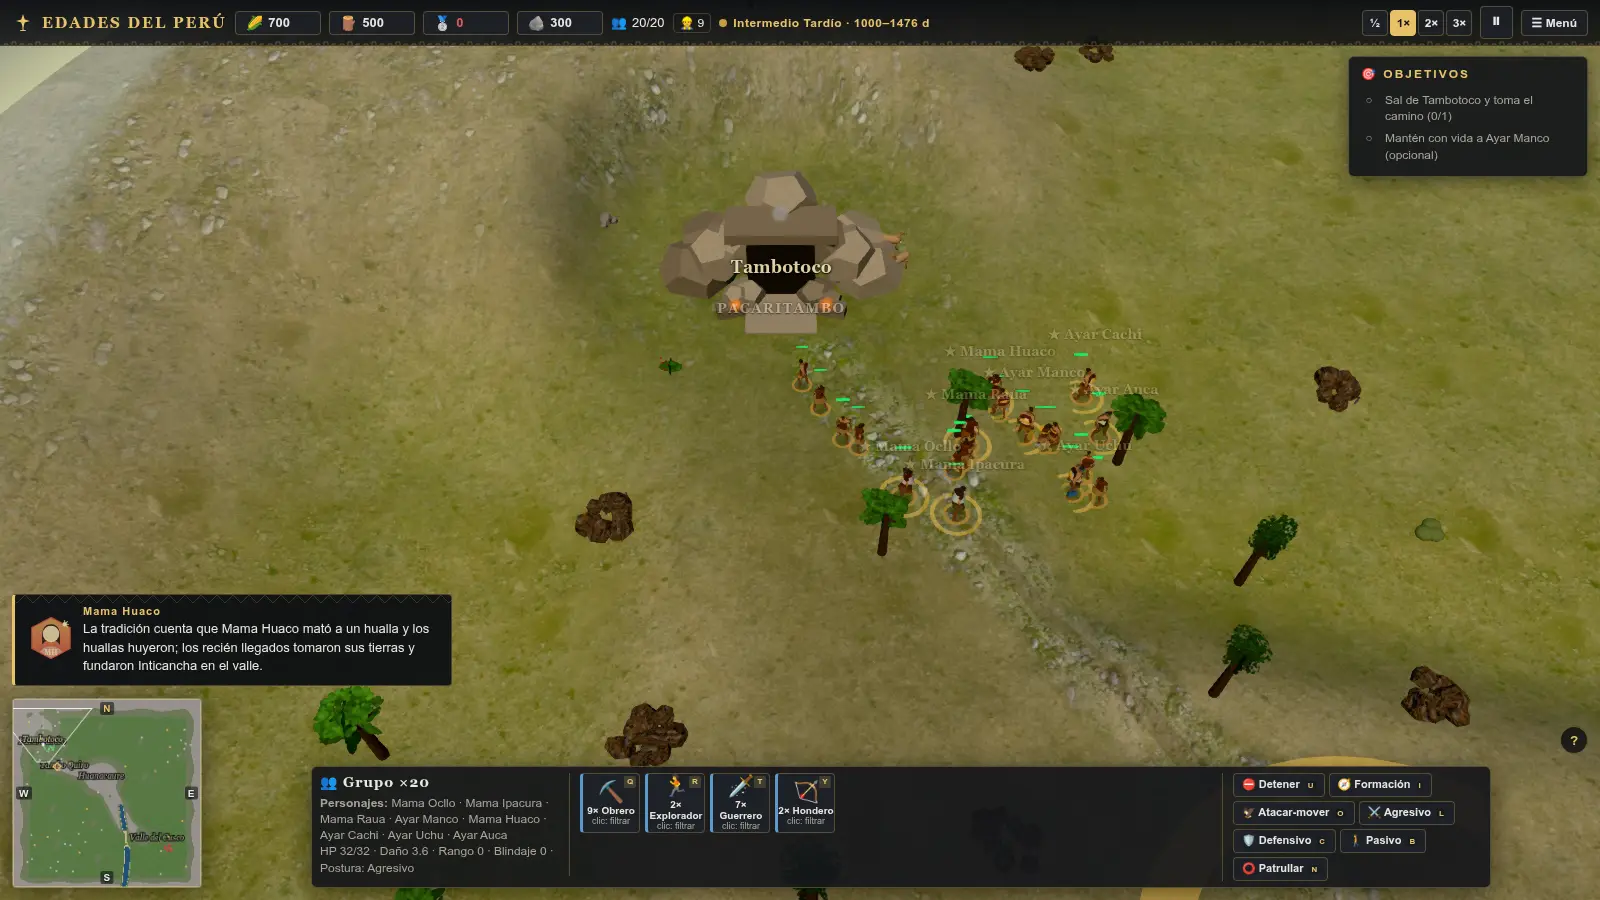
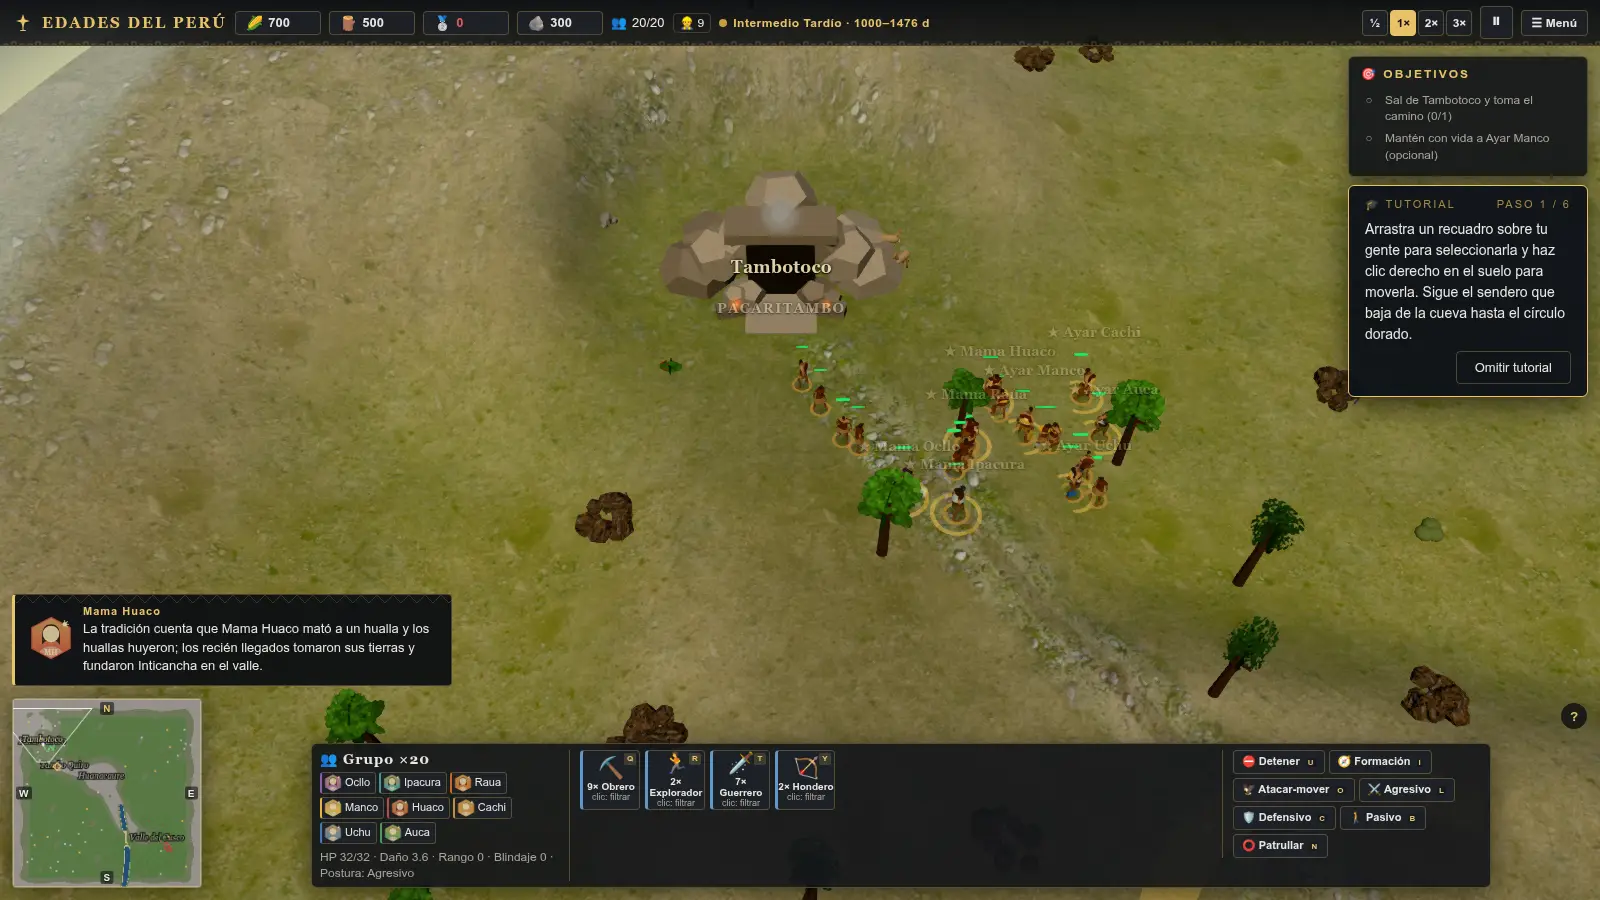
feat(ui): name a selected cast with portrait chips
The selected-party panel listed the eight Ayar in one paragraph («Personajes: Mama Ocllo · …») that wrapped over the stats. Multi-character selections now render one chip per commander: a small medallion, a short name and a border in the commander accent; the full name stays in the tooltip and on the accessible label, and the stats keep their lines. The description column grows to 140 px at 1280 and 160 px at 1920 so the eight chips plus the stat block fit without scrolling.

The short name and the accent fallback move to commanders.ts (commanderShortName / commanderAccent): «Ayar Manco» → «Manco», «Túpac Amaru II» → «Amaru», «José de San Martín» → «Martín», so a shipped mission cannot label a chip «II». Hero markers and hero attire use the same accent helper, and the old hud.unit.cast paragraph key is gone.

The party nameplate spread leaves a named 3 px gap between stacked plates instead of 1. The zoom fade from #506 still drops them at the strategic zoom.

Evidence: scripts/capture_hud_dialogue.mjs regenerates the native 1280/1600/1920 captures. Tests: the cast E2E asserts eight chips, the full-name tooltip, no chips for a single hero, and that the chips plus stats fit; hud-layout now snapshots a selected cast in every mission.

diff --git a/src/ui/HUD.ts b/src/ui/HUD.ts
@@ -56,7 +56,14 @@ import { renderBriefing } from './MissionBriefing';
 import { decorateTitleScreen, renderCampaignPath, renderMainMenu } from './SeriesMenu';
 import { publicAsset } from '../util/publicAsset';
 import type { MissionDef, ObjectiveProgress, ObjState } from '../campaign/types';
-import { COMMANDERS, commanderById, commanderLabel, type PortraitId } from '../model/defs/commanders';
+import {
+  COMMANDERS,
+  commanderById,
+  commanderAccent,
+  commanderLabel,
+  commanderShortName,
+  type PortraitId,
+} from '../model/defs/commanders';
 import type { HeritageBuildingDef, HeritageBuildingId } from '../model/defs/heritage';
 import { portraitSvg } from './Portrait';
 import { DamageNumbers } from './DamageNumbers';
@@ -190,9 +197,12 @@ const CSS = /* css */ `
   #ed-bottom-header { padding: 3px 12px; font-size: 12px; font-weight: 700; border-bottom: 1px solid var(--line); display: flex; align-items: center; gap: 8px; background: rgba(232,195,106,0.06); background-image: var(--weave); background-repeat: repeat-x; background-position: bottom; }
   #ed-bottom-header:empty { display: none; }
   #ed-bottom-body { padding: 6px 8px; display: flex; flex-direction: row; align-items: flex-start; gap: 10px; }
-  #ed-desc { flex: 0 0 250px; max-height: 120px; overflow-y: auto; font-size: 12px; color: var(--text-dim); line-height: 1.35; padding-right: 10px; border-right: 1px solid var(--line); }
+  #ed-desc { flex: 0 0 250px; max-height: 140px; overflow-y: auto; font-size: 12px; color: var(--text-dim); line-height: 1.35; padding-right: 10px; border-right: 1px solid var(--line); }
   #ed-desc:empty { display: none; }
   #ed-desc h3 { margin: 0 0 3px; font-size: 14px; color: var(--text); }
+  #ed-desc .ed-hero-chips { display: flex; flex-wrap: wrap; gap: 3px; margin: 0 0 5px; }
+  #ed-desc .ed-hero-chip { display: inline-flex; align-items: center; gap: 3px; padding: 1px 5px 1px 2px; border: 1px solid var(--line); border-left: 2px solid var(--accent, var(--gold)); border-radius: 3px; background: var(--panel-2); color: var(--text); font-size: 11px; line-height: 1.2; }
+  #ed-desc .ed-hero-chip .ed-portrait { width: 18px; height: 18px; }
   .ed-grid { flex: 1 1 auto; display: flex; flex-wrap: wrap; align-content: flex-start; gap: 5px; min-width: 0; }
   #ed-commands { flex: 0 1 260px; display: flex; flex-wrap: wrap; align-content: flex-start; gap: 4px; padding-left: 10px; border-left: 1px solid var(--line); }
   #ed-commands:empty { display: none; }
@@ -553,8 +563,10 @@ const CSS = /* css */ `
     #ed-dialogue .txt { font-size: 15px; }
     #ed-bottom { max-width: 1500px; }
     #ed-bottom-header { font-size: 14px; padding: 4px 14px; }
-    #ed-desc { flex-basis: 320px; max-height: 140px; font-size: 14px; }
+    #ed-desc { flex-basis: 320px; max-height: 160px; font-size: 14px; }
     #ed-desc h3 { font-size: 16px; }
+    #ed-desc .ed-hero-chip { font-size: 12px; }
+    #ed-desc .ed-hero-chip .ed-portrait { width: 20px; height: 20px; }
     .ed-card { width: 70px; height: 70px; font-size: 12px; }
     #ed-commands { flex-basis: 310px; }
     #ed-commands .ed-command { padding: 6px 10px; font-size: 13px; }
@@ -1882,8 +1894,18 @@ export class HUD {
       const c = commanderById(u.tag);
       return c ? [c] : [];
     });
-    const castLine =
-      commander || cast.length === 0 ? '' : `<b>${t('hud.unit.cast')}:</b> ${cast.map((c) => c.name).join(' · ')}<br>`;
+    // One chip per named character: a portrait, a short name and the commander's accent, instead of a
+    // paragraph of eight names that wrapped over the unit stats.
+    const chips =
+      cast.length === 0
+        ? ''
+        : `<div class="ed-hero-chips">${cast
+            .map((c) => {
+              const accent = commanderAccent(c);
+              const name = escapeHtml(c.name);
+              return `<span class="ed-hero-chip" style="--accent:${accent}" title="${name}" aria-label="${name}">${portraitSvg(c, 18)}<span>${escapeHtml(commanderShortName(c))}</span></span>`;
+            })
+            .join('')}</div>`;
     const mixed = new Set(units.map((u) => u.kind)).size > 1;
     const title = commander
       ? commanderLabel(commander)
@@ -1895,7 +1917,7 @@ export class HUD {
       title,
       commander
         ? `${commander.hero ? `${t('hud.unit.hero')} · ` : ''}${commander.role}<br>${this.unitDesc(first)}`
-        : `${castLine}${this.unitDesc(first)}`,
+        : `${chips}${this.unitDesc(first)}`,
     );
     this.clearGrid();
     // summary by type (click = select only that type) — AoE2 style

diff --git a/tests/e2e/campaign.spec.ts b/tests/e2e/campaign.spec.ts
@@ -1211,16 +1211,26 @@ test('the Ayar cast is on the board and named after the briefing', async ({ page
     const heroMarkers = g.heroMarkers ? (g.heroMarkers.rings.count as number) : 0;
     const heroScale = manco.unitView?.view.group.scale.x ?? 0;
     const single = document.querySelector('#ed-desc')?.textContent ?? '';
+    const singleChips = document.querySelectorAll('#ed-desc .ed-hero-chip').length;
     g.selectUnits(tagged.map((u: any) => u.id));
     for (let i = 0; i < 20; i++) g.update(1 / 60, 20 / 60 + i / 60);
     const labels = g.characterLabels ? [...g.characterLabels.labels.values()] : [];
+    const chipEls = [...document.querySelectorAll('#ed-desc .ed-hero-chip')];
+    const chips = chipEls.length;
+    const chipTitles = chipEls.map((el) => el.getAttribute('title') ?? '');
+    const desc = document.getElementById('ed-desc');
+    const descFits = !!desc && desc.scrollHeight <= desc.clientHeight + 1;
     return {
       tags: tagged.map((u: any) => u.tag as string),
       labels: labels.length,
       visibleLabels: labels.filter((l: { visible: boolean }) => l.visible).length,
       single,
+      singleChips,
       heroMarkers,
       heroScale,
+      chips,
+      chipTitles,
+      descFits,
       party: document.querySelector('#ed-desc')?.textContent ?? '',
     };
   });
@@ -1243,9 +1253,15 @@ test('the Ayar cast is on the board and named after the briefing', async ({ page
   expect(info.heroScale).toBeGreaterThan(1.15);
   expect(info.single).toContain('★');
   // A box selection of the party still names its characters (not just "Soldado ×7").
+  // One chip per named character, with the short name visible and the full name on the tooltip.
+  expect(info.singleChips, 'a single hero keeps the plain panel').toBe(0);
+  expect(info.chips).toBe(8);
+  expect(info.chipTitles).toContain('Ayar Manco');
+  expect(info.descFits, 'the chips and the stat block fit without a scroll').toBe(true);
   expect(info.party).toContain('Grupo ×8');
-  expect(info.party).toContain('Ayar Manco');
-  expect(info.party).toContain('Mama Ocllo');
+  expect(info.party).toContain('Manco');
+  expect(info.party).toContain('Ocllo');
+  expect(info.party).not.toContain('Personajes');
   expect(errors).toEqual([]);
 });
 

diff --git a/tests/e2e/hud-layout.spec.ts b/tests/e2e/hud-layout.spec.ts
@@ -42,6 +42,7 @@ type State = Record<string, Box | null>;
 interface Snapshots {
   initial: State;
   dialogue: State;
+  chips: State;
   build: State;
   building: State;
   threePanels: State;
@@ -126,6 +127,14 @@ async function snapshots(page: Page): Promise<Snapshots> {
     await render();
     const dialogue = read();
 
+    // A selected party of named characters grows the description column with portrait chips.
+    const tagged = [...g.units.values()].filter((u: any) => u.owner === 0 && u.tag).map((u: any) => u.id);
+    if (tagged.length) {
+      g.selectUnits(tagged);
+      await render();
+    }
+    const chips = read();
+
     const worker = [...g.units.values()].find((u: any) => u.owner === 0 && u.kind === 'worker' && !u.dead) as
       { id: number } | undefined;
     if (!worker) throw new Error('the mission has no player worker to open the build panel');
@@ -178,6 +187,7 @@ async function snapshots(page: Page): Promise<Snapshots> {
     return {
       initial,
       dialogue,
+      chips,
       build,
       building: buildingSnap,
       threePanels,
@@ -255,6 +265,7 @@ for (const { width, height, missions } of RESOLUTIONS) {
 
         expect(violations(snap.initial), 'start state').toEqual([]);
         expect(violations(snap.dialogue), 'dialogue dock against the other panels').toEqual([]);
+        expect(violations(snap.chips), 'selected cast with portrait chips').toEqual([]);
         // `read()` returns null for a panel the current overlay makes unmeasurable; the overlap pass
         // tolerates that, so only assert the dock shape when both boxes exist.
         const dock = snap.dialogue['ed-dialogue'];

diff --git a/tests/commanders.test.ts b/tests/commanders.test.ts
@@ -1,7 +1,15 @@
 import { describe, it, expect } from 'vitest';
 import fs from 'node:fs';
 import path from 'node:path';
-import { COMMANDERS, commanderById, commanderFor, normalizeCommanderName } from '../src/model/defs/commanders';
+import {
+  COMMANDERS,
+  commanderAccent,
+  commanderById,
+  commanderFor,
+  commanderShortName,
+  DEFAULT_HERO_ACCENT,
+  normalizeCommanderName,
+} from '../src/model/defs/commanders';
 import { portraitSvg } from '../src/ui/Portrait';
 import { MISSIONS } from '../src/campaign/defs/campaign';
 import { getCiv } from '../src/model/defs/civs';
@@ -102,6 +110,22 @@ describe('commander identity', () => {
     for (const id of ['mama_huaco', 'mama_ocllo', 'mama_ipacura', 'mama_raua'] as const) {
       expect(COMMANDERS[id].mantle, id).toBe('long');
     }
+  });
+});
+
+describe('commander presentation names', () => {
+  it('shortens the Ayar and the long documented names without losing identity', () => {
+    expect(commanderShortName(COMMANDERS.manco_capac)).toBe('Manco');
+    expect(commanderShortName(COMMANDERS.mama_ocllo)).toBe('Ocllo');
+    expect(commanderShortName(COMMANDERS.mama_ipacura)).toBe('Ipacura');
+    expect(commanderShortName(COMMANDERS.tupac_amaru)).toBe('Amaru');
+    expect(commanderShortName(COMMANDERS.san_martin)).toBe('Martín');
+    expect(commanderShortName(COMMANDERS.grau)).toBe('Grau');
+  });
+
+  it('has one accent fallback for every presentation surface', () => {
+    expect(commanderAccent(COMMANDERS.manco_capac)).toBe(COMMANDERS.manco_capac.accent);
+    expect(commanderAccent({ ...COMMANDERS.grau, accent: undefined })).toBe(DEFAULT_HERO_ACCENT);
   });
 });
 

diff --git a/src/model/defs/commanders.ts b/src/model/defs/commanders.ts
@@ -365,3 +365,21 @@ export function commanderById(id: string | undefined): CommanderDef | undefined 
 export function commanderLabel(commander: CommanderDef): string {
   return commander.hero ? `★ ${commander.name}` : commander.name;
 }
+
+const NAME_PARTICLES = new Set(['de', 'del', 'la', 'las', 'los', 'y', 'van', 'von']);
+
+/**
+ * Compact field/HUD name for a chip: the last meaningful word. «Ayar Manco» → «Manco», «Mama Ocllo» →
+ * «Ocllo», «Túpac Amaru II» → «Amaru», «José de San Martín» → «Martín». The full name stays in the tooltip.
+ */
+export function commanderShortName(commander: CommanderDef): string {
+  const words = commander.name
+    .split(/\s+/)
+    .filter((word) => word && !NAME_PARTICLES.has(word.toLowerCase()) && !/^[IVX]+$/.test(word));
+  return words[words.length - 1] ?? commander.name;
+}
+
+/** Accent used by markers, chips and attire; the single fallback for every presentation surface. */
+export function commanderAccent(commander: CommanderDef): string {
+  return commander.accent ?? DEFAULT_HERO_ACCENT;
+}

diff --git a/src/rendering/UnitView.ts b/src/rendering/UnitView.ts
@@ -1,6 +1,6 @@
 import * as THREE from 'three';
 import { EntityView } from '../entities/EntityView';
-import { commanderById, DEFAULT_HERO_ACCENT, type CommanderDef } from '../model/defs/commanders';
+import { commanderAccent, commanderById, type CommanderDef } from '../model/defs/commanders';
 import { acquireRig } from './ModelAssets';
 import type { RigInstance } from './RigInstance';
 import { buildModel, disposeModel, type BuildContext } from '../model/ProceduralModel';
@@ -80,7 +80,7 @@ export class UnitView {
     const root = this.rig?.root;
     if (!root) return;
     const female = this.unit.gender === 'female';
-    const accent = new THREE.Color(commander.accent ?? DEFAULT_HERO_ACCENT);
+    const accent = new THREE.Color(commanderAccent(commander));
     // Lift the tunic away from the skin tone; the dark accent carries the skirt/wrap and the headband.
     const cloth = accent.clone().lerp(new THREE.Color('#ecdfc6'), 0.3);
     const dark = accent.clone().multiplyScalar(0.55);

diff --git a/src/rendering/HeroMarkers.ts b/src/rendering/HeroMarkers.ts
@@ -1,6 +1,6 @@
 import * as THREE from 'three';
 import type { Unit } from '../entities/Unit';
-import { COMMANDERS, commanderById, DEFAULT_HERO_ACCENT, type HeroCrest } from '../model/defs/commanders';
+import { COMMANDERS, commanderAccent, commanderById, type HeroCrest } from '../model/defs/commanders';
 
 const MAX_HEROES = Object.values(COMMANDERS).filter((commander) => commander.hero).length;
 const _dummy = new THREE.Object3D();
@@ -95,7 +95,7 @@ export class HeroMarkers {
       if (!commander?.hero) continue;
       heroes.push({
         unit,
-        accent: commander.accent ?? DEFAULT_HERO_ACCENT,
+        accent: commanderAccent(commander),
         shape: commander.crest ?? 'diamond',
       });
       if (heroes.length === MAX_HEROES) break;

diff --git a/src/ui/WorldLabels.ts b/src/ui/WorldLabels.ts
@@ -23,6 +23,9 @@ export interface WorldLabel {
   readonly group: string | null;
 }
 
+/** Vertical air between stacked plates of one group. */
+const LABEL_STACK_GAP = 3;
+
 const STYLE_ID = 'ed-world-labels-style';
 const CSS = `
 #ed-world-labels { position: fixed; inset: 0; pointer-events: none; z-index: 15; overflow: hidden; }
@@ -126,7 +129,7 @@ export class WorldLabelLayer {
       for (let pass = 0; pass < 8; pass++) {
         const hit = boxes.find((b) => b.group === p.label.group && x0 < b.x1 && x1 > b.x0 && y0 < b.y1 && y1 > b.y0);
         if (!hit) break;
-        const shift = y1 - hit.y0 + 1;
+        const shift = y1 - hit.y0 + LABEL_STACK_GAP;
         y0 -= shift;
         y1 -= shift;
         p.label.lift -= shift;

diff --git a/src/i18n/es.ts b/src/i18n/es.ts
@@ -129,7 +129,6 @@ export const es = {
   'hud.missionCard.aria': 'Continuar a la misión',
 
   'hud.unit.civilian': 'HP {hp}/{maxHp} · {task}{carry}',
-  'hud.unit.cast': 'Personajes',
   'hud.unit.hero': 'Héroe',
   'hud.unit.group': 'Grupo',
   'hud.unit.carrying': ' · Carga: {amount}/{max} de {resource}',

diff --git a/docs/design/campaign-quality-bar.md b/docs/design/campaign-quality-bar.md
@@ -421,7 +421,7 @@ The table separates what is implemented from the performance pass that is still 
 | Contract    | Met: Acts II–IV hidden; the hualla visit (pays 150 food / 100 wood) and the irrigation farm are optional; the defended intake (`a3_oleada`) gates the acequia, the only required water step.     |
 | Onboarding  | Met: six-step tutorial that teaches controls (move, camp store, hunt, visit, water, canchas), briefing with the eight siblings and Codex.                                |
 | Closure     | Met: the epilogue tells the foundation as tradition and names both versions; no counterfactual is hidden.                                                                |
-| UX          | Met: campaign layout at 1600×900, the eight-card briefing at 1280×720, a left dialogue dock above the minimap, a large-screen HUD scale at 1920×1080 and `hud-layout.spec.ts`. |
+| UX          | Met: campaign layout at 1600×900, the eight-card briefing at 1280×720, a left dialogue dock above the minimap, portrait chips for a selected cast, a large-screen HUD scale at 1920×1080 and `hud-layout.spec.ts`. |
 | Visuals     | Met: 256 m transect, the modular terrain-conformed ayllu kit (coursed stone, thatch houses, qollqas, terraced fields, paved plaza at grade) and the approved EEVEE intro render (`m_tambotoco-intro`). |
 | Persistence | Met: save/load round-trip in `save-campaign.spec.ts`.                                                                                                                    |
 | Tests       | Met: `tests/tambotoco.test.ts` (cast, tags, huaca beats), scale, campaign path and the campaign E2E specs.                                                               |

diff --git a/docs/design/tambotoco-model-mission.md b/docs/design/tambotoco-model-mission.md
@@ -123,8 +123,11 @@ The legend is about eight siblings, so all eight are on the board from the start
 ## HUD and dialogue
 
 Mission dialogue is a left dock above the minimap, so a long historical line does not cover the party at
-1280x720. At 1700 px and above the HUD (top bar, objectives, tutorial, dialogue, cards, minimap and command
-bar) scales up instead of staying at 12 px labels on a 1920 panel. `tests/e2e/hud-layout.spec.ts` still
+1280x720. A selected party names its characters as portrait chips (short name, full name on hover, commander
+accent), instead of a wrapped paragraph; the party nameplates keep a 3 px gap when the layer spreads them.
+
+At 1700 px and above the HUD (top bar, objectives, tutorial, dialogue, cards, minimap and command bar) scales
+up instead of staying at 12 px labels on a 1920 panel. `tests/e2e/hud-layout.spec.ts` still
 checks the panels geometrically at 1280x720, 1600x900 and 1920x1080. Captures:
 `docs/media/tambotoco-hud-{1280,1600,1920}.webp` (native size), `node scripts/capture_hud_dialogue.mjs`.
 
